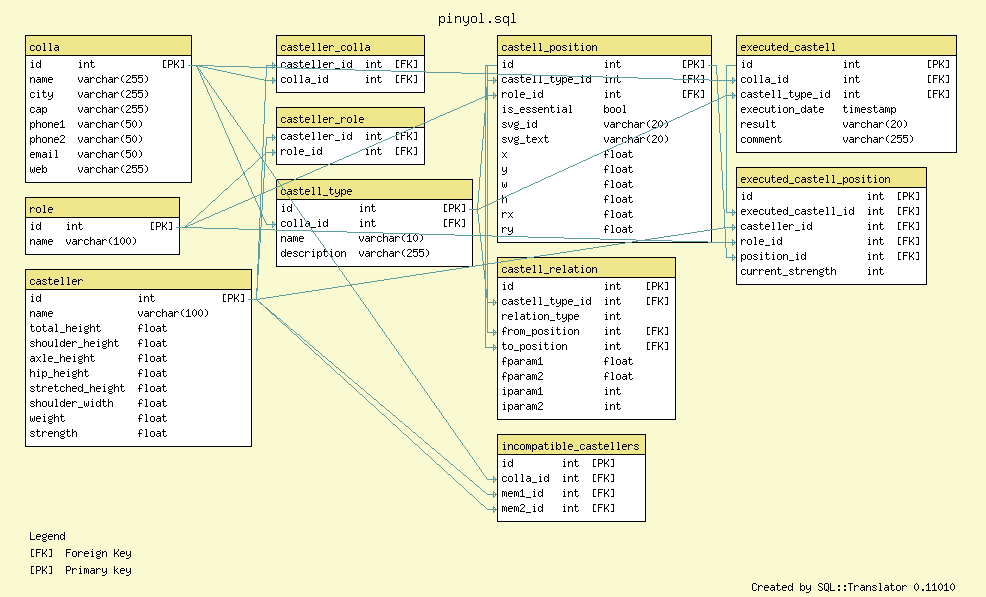
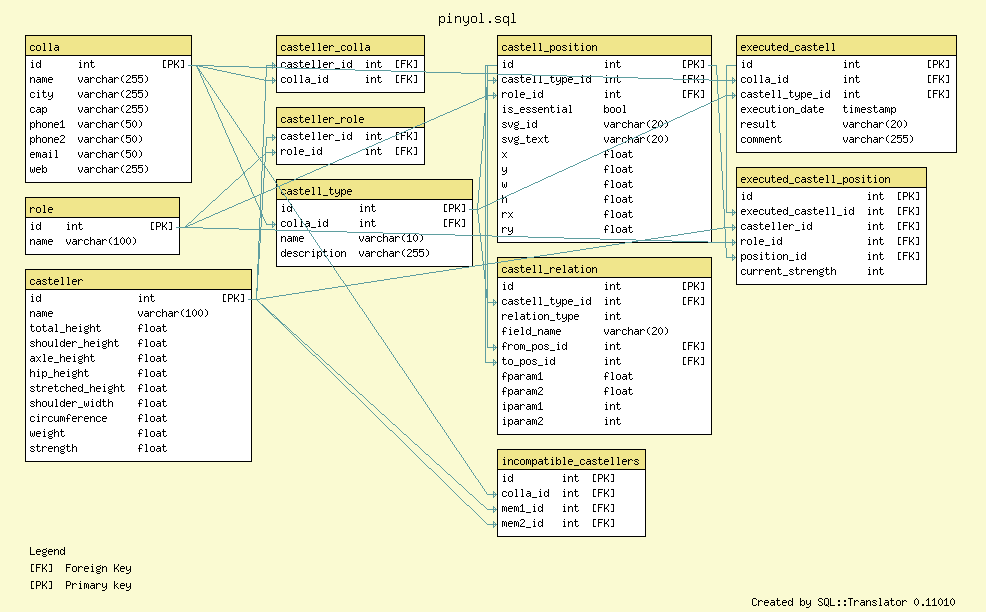
db returns dictionary; more general relation building

diff --git a/build_ip.py b/build_ip.py
@@ -12,14 +12,18 @@ def get_castellers(db, colla_id, pos_id):
     """
     c = db.cursor()
     c.execute("""
-select casteller.id, total_height, shoulder_height, hip_height, stretched_height, weight, strength 
+select casteller.id, name, total_height, shoulder_height, hip_height, stretched_height, weight, strength 
 from casteller
 left join casteller_role on casteller_role.casteller_id = casteller.id
 left join castell_position on casteller_role.role_id = castell_position.role_id 
 left join casteller_colla on casteller.id = casteller_colla.casteller_id 
 where castell_position.id = %s and casteller_colla.colla_id = %s
 """, (pos_id,colla_id,))
-    return c.fetchall()
+    res = c.fetchall()
+    ans = []
+    for row in res:
+        ans.append(dict([('id', int(row[0])), ('name', row[1]), ('total_height', row[2]), ('shoulder_height', row[3]), ('hip_height', row[4]), ('stretched_height', row[5]), ('weight', row[6]), ('strength', row[7])]))
+    return ans
 
 def get_relations(db, castell_type_id):
     """
@@ -27,7 +31,12 @@ def get_relations(db, castell_type_id):
     """
     c = db.cursor()
     c.execute("""select * from castell_relation where castell_type_id=%s""", (castell_type_id,))
-    return c.fetchall()
+    res = c.fetchall()
+    ans = []
+    for row in res:
+        ans.append(dict([('id', int(row[0])), ('castell_type_id', int(row[1])), ('relation_type', int(row[2])), ('field_name', row[3]), ('from_pos_id', row[4]), ('to_pos_id', row[5]), ('fparam1', row[6]), ('fparam2', row[7]), ('iparam2', row[8]), ('iparam2', row[9])]))
+    return ans
+
 
 def var(casteller_id, pos_id):
     """
@@ -35,23 +44,22 @@ def var(casteller_id, pos_id):
     """
     return "c" + str(casteller_id) + "p" + str(pos_id)
 
-def make_ineq1(pos_id, castellers_in_position, prop_index, operator=" + "):
+def make_ineq1(pos_id, castellers_in_position, prop, operator=" + "):
     """
     make part of an inequality using the position pos and the property indexed by prop_index
     """
     ineq = ''
     from_castellers = castellers_in_position[pos_id]
     for from_casteller in from_castellers:
-        prop = from_casteller[prop_index]
-        ineq = ineq + str(prop) + " " + var(from_casteller[0], pos_id) + operator
+        ineq = ineq + str(from_casteller[prop]) + " " + var(from_casteller['id'], pos_id) + operator
     ineq = ineq[:-3] 
     return ineq 
 
-def make_ineq2(from_pos_id, to_pos_id, castellers_in_position, prop_index):
+def make_ineq2(from_pos_id, to_pos_id, castellers_in_position, prop):
     """
     make the LHS of an inequality using two positions and the property indexed by prop_index
     """
-    return make_ineq1(from_pos_id, castellers_in_position, prop_index) + " - " + make_ineq1(to_pos_id, castellers_in_position, prop_index, " - ")
+    return make_ineq1(from_pos_id, castellers_in_position, prop) + " - " + make_ineq1(to_pos_id, castellers_in_position, prop, " - ")
 
 def make_castellers_in_position_ineqs(castellers_in_position, is_essential_pos, participation, obj_val, ineqs):
     """ 
@@ -62,9 +70,9 @@ def make_castellers_in_position_ineqs(castellers_in_position, is_essential_pos, 
     for pos_id, castellers in castellers_in_position.iteritems():
         position_ineq = '' # in position pos_id, there may be at most one casteller
         for casteller in castellers:
-            casteller_id = casteller[0]; casteller_strength = casteller[6]
+            casteller_id = casteller['id']
             v = var(casteller_id, pos_id)
-            obj_val[v] = casteller_strength
+            obj_val[v] = casteller['strength']
             position_ineq = position_ineq + v + " + "
             if casteller_id not in pos_of_casteller:
                 pos_of_casteller[casteller_id] = []
@@ -100,37 +108,28 @@ def make_relation_ineqs(relations, castellers_in_position, ineqs):
     make the inequalities that express relations between different positions in the castell
     """ 
     for rel in relations:
-        rel_type, from_pos, to_pos, tolerance = rel[2:6]
-
-        if rel_type == 1: 
-            # rengla descends weakly: 
-            # 0 <= (total height at from_pos) - (total_height at to_pos) <= tolerance
-            if from_pos is None or to_pos is None:
-                print "Error in relation ", rel, ": from_pos or to_pos is None"
-                break
-            ineq_terms = make_ineq2(from_pos, to_pos, castellers_in_position, 1)
-            label = "rel" + str(from_pos) + "_" + str(to_pos) + ": "
+        if rel['relation_type'] == 1: 
+            # compare two values
+            # 0 <= (value of field_name at from_pos) - (value of field_name at to_pos) <= tolerance
+            ineq_terms = make_ineq2(rel['from_pos_id'], rel['to_pos_id'], castellers_in_position, rel['field_name'])
+            label = "rel" + str(rel['from_pos_id']) + "_" + str(rel['to_pos_id']) + ": "
             ineqs.append(label + ineq_terms + " >= 0")
-            ineqs.append(label + ineq_terms + " <= " + str(tolerance))
+            ineqs.append(label + ineq_terms + " <= " + str(rel['fparam1']))
 
-        elif rel_type == 2: 
+        elif rel['relation_type'] == 2: 
             # Ma can support segon:
-            # stretched_height at position is at least fparam1
-            if from_pos is None:
-                print "Error in relation ", rel, ": from_pos is None"
-                break
-            ineqs.append("h" + str(from_pos) + ": " + make_ineq1(from_pos, castellers_in_position, 5) + " >= " + str(tolerance))
+            # value of field_name at position is at least fparam1
+            ineqs.append("h" + str(rel['from_pos_id']) + ": " + make_ineq1(rel['from_pos_id'], castellers_in_position, rel['field_name']) + " >= " + str(rel['fparam1']))
 
         elif rel_type == 3: # weight at position is at least fparam1
             print "implement me!\n"
 
 
-def ip_ineqs(participation = dict(), castell_type_id = 1, colla_id = 1): # CVG and p4 
+def ip_ineqs(castellers_in_position, participation = dict(), castell_type_id = 1, colla_id = 1): # CVG and p4 
     import MySQLdb
 
     db = MySQLdb.connect(user="pinyol", passwd="pinyol01", db="pinyol")
 
-    castellers_in_position = dict()
     is_essential_pos = dict()
     for pos in get_positions(db, castell_type_id):
         pos_id = pos[0]
@@ -146,7 +145,7 @@ def ip_ineqs(participation = dict(), castell_type_id = 1, colla_id = 1): # CVG a
 
     return [obj_val, ineqs]
 
-def lp_format(t):
+def make_lp_file(t):
     obj_val, ineqs = t
     f = "maximize\n"
     variables = sorted(obj_val.keys())
@@ -160,6 +159,39 @@ def lp_format(t):
         f = f + v + " "
     return f
 
+def write_lp_file(castellers_in_position, participation, filename='pinya.lp'):
+    f = open(filename, 'w')
+    f.write(make_lp_file(ip_ineqs(castellers_in_position, participation)))
+    f.close()
+
+def find_pinya(participation, filename='pinya.lp'):
+    import sys
+    sys.path.append('/opt/gurobi500/linux32/lib/python2.7')
+    from gurobipy import read
+
+    castellers_in_position = dict()
+    write_lp_file(castellers_in_position, participation, filename)
+
+    model=read(filename)
+    model.optimize()
+    if model.status == 2:
+        sv = model.getVars()
+        sol = dict()
+        for v in sv:
+            if v.x == 1:
+                vname = v.var_name
+                cast_id = vname[1:vname.find('p')]
+                pos_id = long(vname[vname.find('p')+1:])
+                for casteller in castellers_in_position[pos_id]:
+                    if casteller['id'] == int(cast_id):
+                        sol[int(pos_id)] = casteller['name']
+        return sol
+    else:
+        return False
+    
+
 if __name__ == "__main__":
+    castellers_in_position = dict()
     participation = dict([(9, 0), (17, 5)])
-    print lp_format(ip_ineqs(participation))
+#    print lp_file(ip_ineqs(castellers_in_position, participation))
+    print find_pinya(participation)

diff --git a/run_unit_tests.py b/run_unit_tests.py
@@ -5,14 +5,16 @@ import unittest
 import build_ip
 import solve_ip
 
-
+make_lp_file = build_ip.make_lp_file
+ip_ineqs = build_ip.ip_ineqs
 
 class IPTest(unittest.TestCase):
 
     def test_build_ip(self):
         f = open('tests/test.lp', 'r')
         participation = dict([(9, 0), (17, 5)])
-        self.assertEqual(build_ip.lp_format(build_ip.ip_ineqs(participation)) + "\n", f.read())
+        castellers_in_position = dict()
+        self.assertEqual(make_lp_file(ip_ineqs(castellers_in_position, participation)) + "\n", f.read())
 
     def test_solve_ip(self):
         f = open('tests/test.solutions', 'r')
